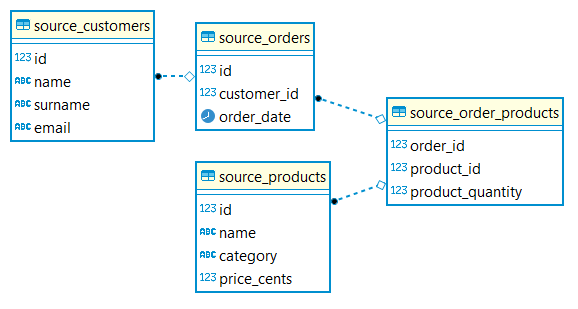
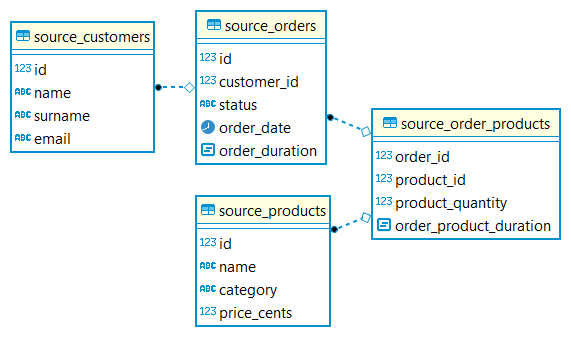
completed demo teddy_retailers

Changed region(s): [[0.0, 0.0291, 0.9825, 0.9903]]

diff --git a/README.md b/README.md
@@ -2,29 +2,19 @@
 
 This project showcases the integration of dbt with Teradata Vantage from an advanced user perspective. If you are new to data engineering with dbt we recommend that you start with our [introductory project.](https://github.com/Teradata/jaffle_shop-dev)
 
-The advanced use cases showcased in the demo are the following:
+The advanced use case showcased in this demo is the combination of dbt with Teradata Vantage temporal tables features.
 
-* Incremental materializations
-* Utility macros
-* Optimizing table/view creations with Teradata-specific modifiers
-
-The application of these concepts is illustrated through the ELT process of `teddy_retailers`, a fictional store. Through dbt driven transformations we transform source data from the`teddy_retailers` transactional database into a star schema ready for analytics.
+The application of these concepts is illustrated through the ELT process of `teddy_retailers`, a fictional store. The demo is focused on the ingestion of data into an incremental model filtering for data ingested after the previous dbt run. This objective is attained through usage of Teradata Vantage temporal tables features.
 
 The source data consists of the following tables customers, orders, products, and order_products, according to the following Entity Relations Diagram.
 
-
 ![Teddy Retailers Initial ERD](/etc/teddy_retailers_initial_erd.png)
-
 
 After the dbt driven transformations the `fact table` fct_order_details is created, this table contains all quantitive data related to the orders (facts), and the foreign keys to link these facts to all dimensions. A dimension table is created for each of the categorical values, customers, orders, and products, according to the following Entity Relations Diagram.
 
-
 ![Teddy Retailers Final ERD](/etc/teddy_retailers_final_erd.png)
 
-
-The catch of this project is that the data in two of our sources orders, and order_products, is updated periodically, the data that appears in those sources is only the delta regarding new orders that happened since the previous data load. This means that we need to persist all data in previous transformations regarding those two sources in order we capture all data and not only the most recent deltas.
-
-For the purpose above we have defined, as part of our design, two incremental models, all_orders, and all_order_products. To help us in the management of these two models we have created two macro-assisted tests, we are defining a primary key on all_orders, and we are tracking the statistics of both of them.
+The data in two of our sources `sources_orders`, and `source_order_products`, is updated periodically. These sources contain Teradata Vantage `TRANSACTIONTIME` PERIOD fields, `order_duration` and `order_product_duration`, respectively. The Period columns keep an automated record of timestamps pointing to the period of time when the data was inserted or updated. Using these timestamps in conjuction with dbt allows to ingest only newly inserted of udpated data in our dbt models. For this purpose we have defined, as part of our design, two incremental models, all_orders, and all_order_products. 
 
 ![Teddy Retailers Incremental ERD](/etc/teddy_incrementals.png)
 
@@ -33,7 +23,7 @@ For the purpose above we have defined, as part of our design, two incremental mo
 ### Pre-requisites
 * Access to a Teradata Vantage Instance. You can provision one for free at [ClearScape Analytics Experience.](https://clearscape.teradata.com/sign-in)
 * Your favorite database client.
-* Python 3.9 or above (recommended).
+* Python 3.9 - 3.10 (recommended).
 
 ### Steps
 #### Setting Up Environment
@@ -67,15 +57,12 @@ teddy_retailers:
 
 #### Running and Testing Transformations
 * Run `dbt run` to execute the transformations on the baseline data.
-* The incremental models (used for data persistence), and the star schema tables are created at this point.
-* Run `dbt test` to run the tests.
-    - One test confirms the integrity of the all_order_products model by making sure that each product is referenced only once per order. 
-    - The other test confirms the integrity of the fct_order_details model by confirming it has as many raws as the all_order_products_model.
-* Check the statistics on both all_orders and all_order_products through your database client `HELP STATS <table name>`.
+* The incremental models are created at this point.
+* Check the statistics on both all_orders and all_order_products through your database client `HELP STATS <table name>`, this permits a fast confirmation regarding the data that was transformed.
 * At this point, you can execute any of the query scripts in references/query in your database client to view the fact data sliced by a specific dimension.
 
 #### Ingesting deltas on baseline
 * To mimic the batch process of data loading, the loading of deltas on the baseline data, execute the update_data script in references/inserts.
-* After loading the deltas, the steps of the section above (running and testing transformations) can be repeated in order to see the changes.
+* After loading the updated data, the steps of the section above (running and testing transformations) can be repeated in order to see the changes.
 
 For questions on this project, you can contact us at [Ecosystem Management - Community](https://support.teradata.com/community?id=community_forum&sys_id=353d17d44fed7f00dcf7a6118110c7b5)
